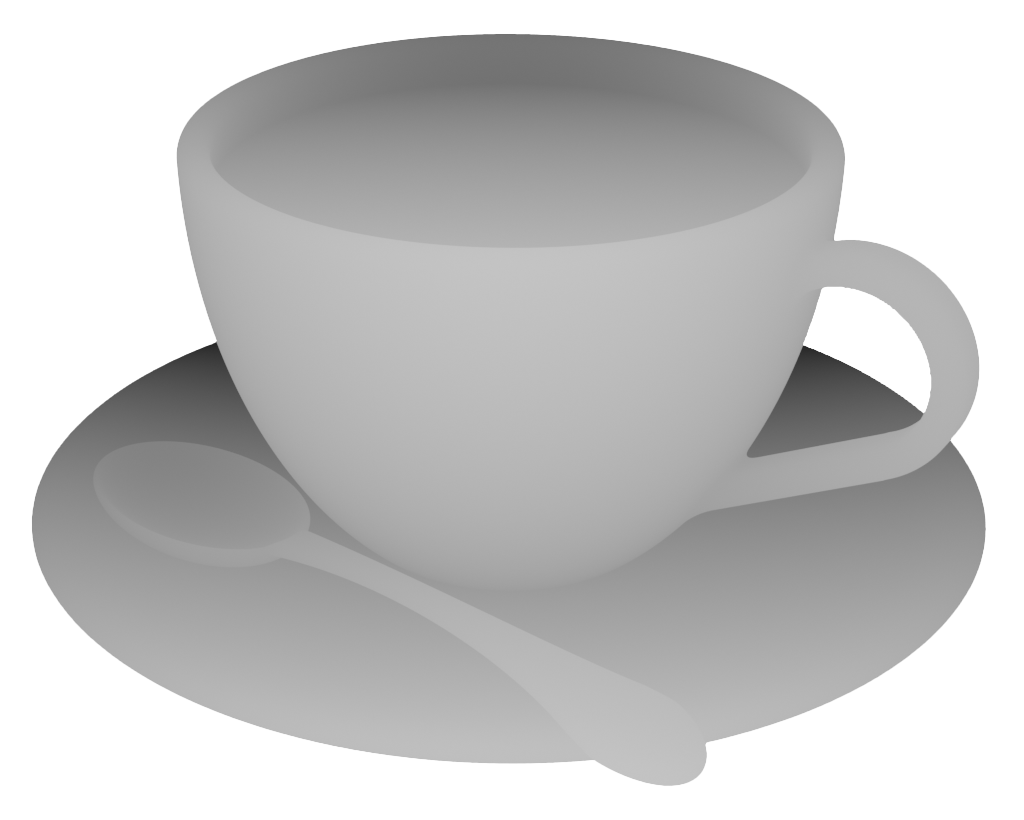
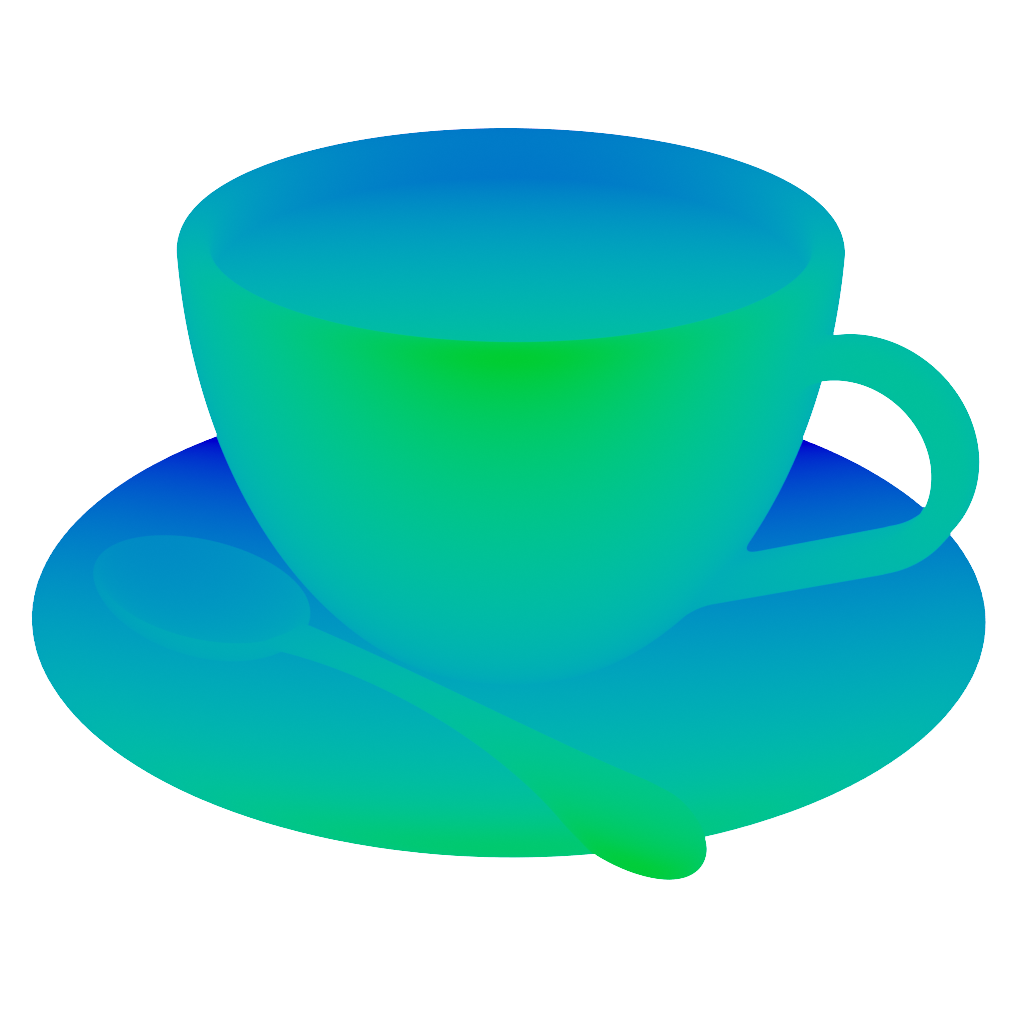
Replaced the monochrome depth map image with a colored image

diff --git a/RelatedWorks.tex b/RelatedWorks.tex
@@ -87,7 +87,7 @@ Occupancy grids provide rich volumetric data for object classificaiton and recon
 \begin{figure}[ht]
 	\centering
 	\includegraphics[scale=0.2]{Images/Depth Map Cup}
-	\caption{Depth map representation of a coffee cup.}
+	\caption{Depth map representation of a coffee cup. Points closer to the camera are colored green and points further from the camera are colored blue.}
 	\label{fig:depth_map_cup}
 \end{figure}
 
